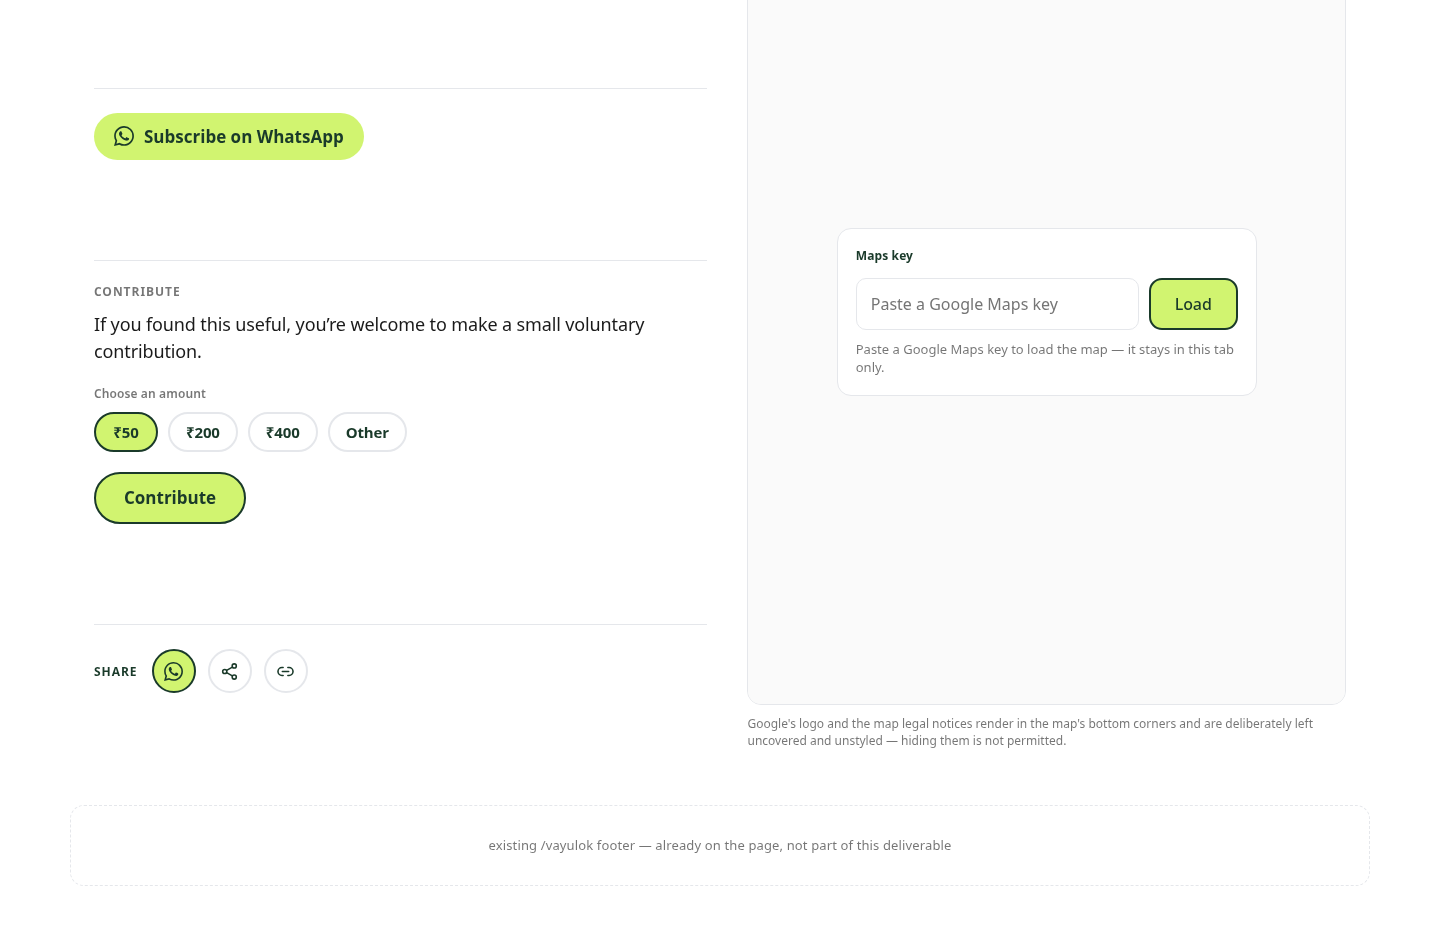
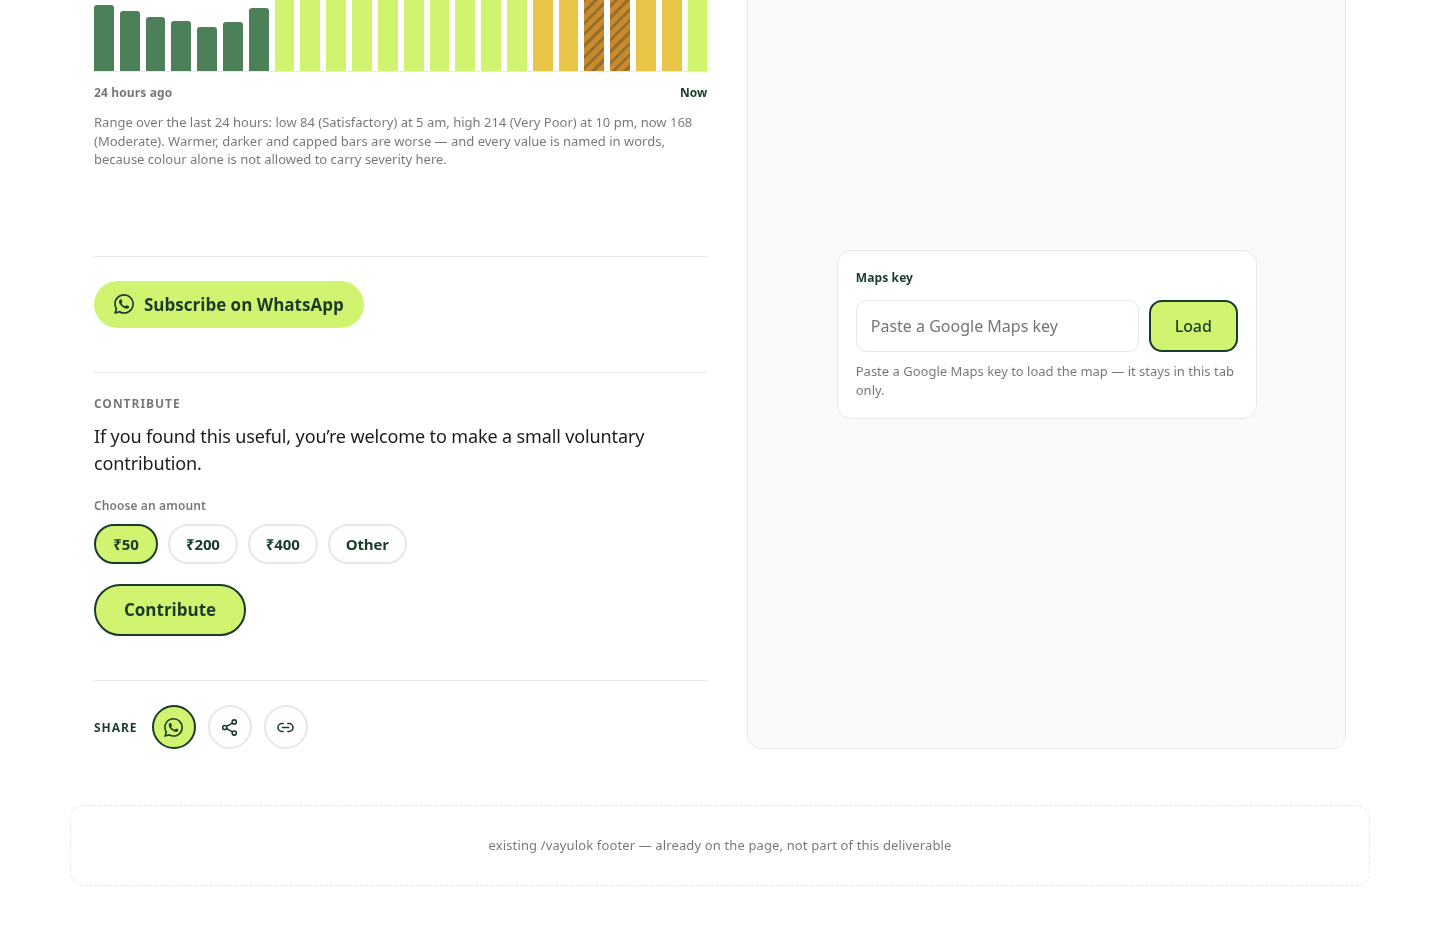
fix(vayulok): bring the AQI chart and left-section onto the home-page design language
- Redesign the 'Last 24 hours, AQI' chart on the home hero's grammar: it now
  sits between two hairlines (top + baseline) like the .vl-signal / .vl-hours
  rails, bars round 3px at the top with a little more air, and the current
  reading is marked with the home .home-mark lime tint (#e0f7c8 / --lime-tint)
  plus a lime baseline tick and a green 'Now' axis label. The severity ramp,
  dark caps and worst-band hatch stay, so form still carries severity (WCAG
  1.4.1), not colour alone.
- Tighten the gaps between the Subscribe / Contribute / Share dividers: drop the
  invented 56px/40px bottom padding on .vl-section so the stack rides the shipped
  rhythm (margin-top:44px; padding-top:24px; border-top), matching .bc and
  .post-share on the real site. The harness-pinned 44px margin / 24px padding
  are unchanged.
- Remove the internal developer note that rendered below the map ('Google's logo
  and the map legal notices render ... hiding them is not permitted.'). The
  policy it stated is preserved as a code comment; the behaviour (never covering
  the map's corner attributions) is unchanged. The now-unused .vl-map-note rule
  is deleted per the file's 'unused rules are deleted' convention.

Twins stay byte-identical; harness 880/880; PNG pairs byte-identical; zero
non-file:// requests; amounts and contribute copy untouched.

diff --git a/docs/mocks/vayulok-final-v3.html b/docs/mocks/vayulok-final-v3.html
@@ -422,9 +422,15 @@ html,body{margin:0;background:#fff}
   border:1px solid var(--hair);border-radius:var(--r-panel);background:var(--ground);
 }
 .vl-map-canvas{position:absolute;inset:0}
-/* The attribution note sits BELOW the map surface, outside it, so it cannot
-   sit on top of Google's logo or the map legal notices. */
-.vl-map-note{margin:0;font-size:12px;line-height:1.45;color:var(--ink-muted)}
+/* .vl-map-note IS RETIRED. It styled a user-visible paragraph below the map that
+   repeated an internal developer note about Google's logo and the map legal
+   notices. That paragraph was an internal comment leaking onto the rendered page,
+   so it was removed; the policy it stated is now a code comment beside the map
+   markup. The rule had no other user, so it is deleted rather than left dormant,
+   per this file's "unused rules are deleted" convention. The behaviour it
+   described - never covering or styling the map's corner attributions - is
+   unchanged: the overlays stay inset from the corners (see .vl-map-preview and
+   .vl-map-legend). */
 
 @media(min-width:1024px){
   .vl-app-grid{
@@ -911,13 +917,30 @@ html,body{margin:0;background:#fff}
   .vl-threeup>div+div{padding-top:22px;padding-left:24px;border-top:0;border-left:1px solid var(--hair)}
 }
 
-/* THE HISTORY CHART. Form again, not tone alone: the two worst bands carry a
-   dark cap, and the worst band is additionally hatched, so Poor and Very Poor
-   stay apart from Moderate in greyscale. The chart is aria-hidden - it is a
-   picture of the numbers - and the readable version is the worded range
-   printed underneath it. */
-.vl-chart{display:flex;align-items:flex-end;gap:5px;height:170px;border-bottom:1px solid var(--hair)}
-.vl-chart span{flex:1 1 0;border-radius:2px 2px 0 0;min-width:0}
+/* THE HISTORY CHART - ON THE HOME PAGE'S DESIGN LANGUAGE.
+   The home hero's visual grammar is: hairline rules rather than boxes, the
+   lime #d1f470 / #e0f7c8 brand tint as the single accent, generous airy
+   spacing, and 9999px/13px rounding on anything that reads as a shape
+   (docs/mocks/home-hero/index.html: .home-mark, .home-btn, .home-layout).
+   This chart is brought onto that grammar:
+     - it sits BETWEEN two hairlines (top + baseline), the same device the
+       .vl-signal / .vl-hours rails already use, so it reads as a framed signal
+       block rather than loose bars on one line;
+     - the bars are rounded 3px at the top (home rounds everything), carry a
+       little more air (gap 6px) and bottom-align on the baseline;
+     - the CURRENT reading - the last bar - is marked with the home mark's lime
+       tint (--lime-tint, the composited #e0f7c8 the home .home-mark uses) and a
+       lime baseline tick, so the eye lands on "Now" exactly as the home hero's
+       lime pill marks the live word.
+   FORM STILL CARRIES SEVERITY, NOT TONE ALONE: the two worst bands keep their
+   dark cap and the worst keeps its hatch, so Poor and Very Poor stay apart from
+   Moderate in greyscale (WCAG 1.4.1). The chart is aria-hidden - a picture of
+   the numbers - and the readable version is the worded range printed below. */
+.vl-chart{
+  display:flex;align-items:flex-end;gap:6px;height:170px;padding-top:24px;
+  border-top:1px solid var(--hair);border-bottom:1px solid var(--hair);
+}
+.vl-chart span{flex:1 1 0;border-radius:3px 3px 0 0;min-width:0}
 .vl-chart .is-sat{background-color:var(--aqi-sat)}
 .vl-chart .is-mod{background-color:var(--aqi-mod)}
 .vl-chart .is-poor{background-color:var(--aqi-poor);border-top:3px solid var(--green)}
@@ -925,8 +948,21 @@ html,body{margin:0;background:#fff}
   background-color:var(--aqi-worst);border-top:3px solid var(--green);
   background-image:repeating-linear-gradient(135deg,rgba(26,58,42,.3) 0 3px,transparent 3px 8px);
 }
-.vl-chart-axis{display:flex;justify-content:space-between;margin:10px 0 0;gap:12px}
+/* THE 'NOW' MARK - the home hero's lime brand tint applied to the live reading.
+   It paints the lime #e0f7c8 wash BEHIND the current bar and drops a 3px lime
+   tick on the baseline under it, which is the same "lime marks the live thing"
+   gesture as .home-mark. It sits on its own class so it layers over whichever
+   severity band the current hour happens to be. */
+.vl-chart .is-now{
+  position:relative;
+  box-shadow:0 0 0 2px var(--lime-tint);
+  border-bottom:3px solid var(--lime);
+}
+.vl-chart-axis{display:flex;justify-content:space-between;margin:12px 0 0;gap:12px}
 .vl-chart-axis span{font-size:12px;font-weight:700;letter-spacing:.01em;color:var(--ink-muted)}
+/* The 'Now' label on the axis carries the brand green, matching the home hero's
+   #1a3a2a accent type, so the two ends read as "then -> now". */
+.vl-chart-axis span:last-child{color:var(--green)}
 
 /* ============================================================================
    SUBSCRIBE - mirrors the .blog-wa-subscribe anchor in src/pages/post/[slug].tsx.
@@ -940,8 +976,17 @@ html,body{margin:0;background:#fff}
    rules. .vl-eyebrow is NOT deleted: it has a second, live user ("Health
    advisory") further up the page, which a grep of every occurrence confirmed
    before anything was removed.
-   ========================================================================= */
-.vl-section{padding-block:56px}
+   NO BOTTOM PADDING. The shipped `.bc` and `.post-share` blocks carry only
+   `margin-top:44px;padding-top:24px;border-top` - they have NO padding-bottom,
+   so the gap below each block is just the next block's own 44px margin-top. The
+   56px padding-bottom this rule used to add was invented for this column and
+   doubled the space under Subscribe and Contribute (the divider already sits
+   44px below the previous content, then 56px of empty padding sat under the
+   content inside the block). Dropping it brings the stack onto the shipped
+   rhythm and removes the extra whitespace between the three blocks. The
+   padding-top here is left in place but is shadowed to 24px by the more-specific
+   `.vl-app-left > .vl-section` rule for all three stacked sections. */
+.vl-section{padding-top:56px;padding-bottom:0}
 /* ROLE 8, ported from src/pages/post/[slug].tsx:772-782
    (.blog-wa-subscribe). It is NO LONGER a ROLE 1 .vl-btn. The shipped anchor is a
    999px pill, 17px/700, padding 12px 20px, lime fill, dark-green type and NO
@@ -1164,7 +1209,7 @@ html,body{margin:0;background:#fff}
 }
 @media(max-width:767px){
   .vl-wrap,.vl-mocknote,.vl-context{padding-inline:16px}
-  .vl-section{padding-block:40px}
+  .vl-section{padding-top:40px;padding-bottom:0}
   .vl-block{padding-block:36px}
   .vl-keycard{padding:16px}
   .vl-map-controls{top:12px;left:12px}
@@ -1473,7 +1518,7 @@ html,body{margin:0;background:#fff}
               <span class="is-worst" style="height:88%"></span>
               <span class="is-poor" style="height:79%"></span>
               <span class="is-poor" style="height:71%"></span>
-              <span class="is-mod" style="height:67%"></span>
+              <span class="is-mod is-now" style="height:67%"></span>
             </div>
             <div class="vl-chart-axis"><span>24 hours ago</span><span>Now</span></div>
             <p class="vl-small" style="margin-top:12px">
@@ -1732,12 +1777,14 @@ html,body{margin:0;background:#fff}
             </div>
           </div>
 
-          <!-- BELOW the map surface, outside it, so it cannot cover Google's
-               logo or the map legal notices. -->
-          <p class="vl-map-note">
-            Google's logo and the map legal notices render in the map's bottom corners and are
-            deliberately left uncovered and unstyled — hiding them is not permitted.
-          </p>
+          <!-- POLICY, FOR DEVELOPERS ONLY - NOT RENDERED. Google's logo and the
+               map legal notices render in the map's bottom corners and must be
+               left uncovered and unstyled; hiding them breaks Google Maps
+               Platform terms. The overlays above (.vl-map-preview at bottom:76px,
+               the legend inset from the corners) already keep clear of them, so
+               there is nothing to draw here. The user-visible paragraph that used
+               to repeat this note on the page was an internal developer comment
+               and has been removed - it is kept here as a code comment instead. -->
         </div>
       </div><!-- /.vl-app-right -->
 

diff --git a/docs/mocks/vayulok-live-mock.html b/docs/mocks/vayulok-live-mock.html
@@ -422,9 +422,15 @@ html,body{margin:0;background:#fff}
   border:1px solid var(--hair);border-radius:var(--r-panel);background:var(--ground);
 }
 .vl-map-canvas{position:absolute;inset:0}
-/* The attribution note sits BELOW the map surface, outside it, so it cannot
-   sit on top of Google's logo or the map legal notices. */
-.vl-map-note{margin:0;font-size:12px;line-height:1.45;color:var(--ink-muted)}
+/* .vl-map-note IS RETIRED. It styled a user-visible paragraph below the map that
+   repeated an internal developer note about Google's logo and the map legal
+   notices. That paragraph was an internal comment leaking onto the rendered page,
+   so it was removed; the policy it stated is now a code comment beside the map
+   markup. The rule had no other user, so it is deleted rather than left dormant,
+   per this file's "unused rules are deleted" convention. The behaviour it
+   described - never covering or styling the map's corner attributions - is
+   unchanged: the overlays stay inset from the corners (see .vl-map-preview and
+   .vl-map-legend). */
 
 @media(min-width:1024px){
   .vl-app-grid{
@@ -911,13 +917,30 @@ html,body{margin:0;background:#fff}
   .vl-threeup>div+div{padding-top:22px;padding-left:24px;border-top:0;border-left:1px solid var(--hair)}
 }
 
-/* THE HISTORY CHART. Form again, not tone alone: the two worst bands carry a
-   dark cap, and the worst band is additionally hatched, so Poor and Very Poor
-   stay apart from Moderate in greyscale. The chart is aria-hidden - it is a
-   picture of the numbers - and the readable version is the worded range
-   printed underneath it. */
-.vl-chart{display:flex;align-items:flex-end;gap:5px;height:170px;border-bottom:1px solid var(--hair)}
-.vl-chart span{flex:1 1 0;border-radius:2px 2px 0 0;min-width:0}
+/* THE HISTORY CHART - ON THE HOME PAGE'S DESIGN LANGUAGE.
+   The home hero's visual grammar is: hairline rules rather than boxes, the
+   lime #d1f470 / #e0f7c8 brand tint as the single accent, generous airy
+   spacing, and 9999px/13px rounding on anything that reads as a shape
+   (docs/mocks/home-hero/index.html: .home-mark, .home-btn, .home-layout).
+   This chart is brought onto that grammar:
+     - it sits BETWEEN two hairlines (top + baseline), the same device the
+       .vl-signal / .vl-hours rails already use, so it reads as a framed signal
+       block rather than loose bars on one line;
+     - the bars are rounded 3px at the top (home rounds everything), carry a
+       little more air (gap 6px) and bottom-align on the baseline;
+     - the CURRENT reading - the last bar - is marked with the home mark's lime
+       tint (--lime-tint, the composited #e0f7c8 the home .home-mark uses) and a
+       lime baseline tick, so the eye lands on "Now" exactly as the home hero's
+       lime pill marks the live word.
+   FORM STILL CARRIES SEVERITY, NOT TONE ALONE: the two worst bands keep their
+   dark cap and the worst keeps its hatch, so Poor and Very Poor stay apart from
+   Moderate in greyscale (WCAG 1.4.1). The chart is aria-hidden - a picture of
+   the numbers - and the readable version is the worded range printed below. */
+.vl-chart{
+  display:flex;align-items:flex-end;gap:6px;height:170px;padding-top:24px;
+  border-top:1px solid var(--hair);border-bottom:1px solid var(--hair);
+}
+.vl-chart span{flex:1 1 0;border-radius:3px 3px 0 0;min-width:0}
 .vl-chart .is-sat{background-color:var(--aqi-sat)}
 .vl-chart .is-mod{background-color:var(--aqi-mod)}
 .vl-chart .is-poor{background-color:var(--aqi-poor);border-top:3px solid var(--green)}
@@ -925,8 +948,21 @@ html,body{margin:0;background:#fff}
   background-color:var(--aqi-worst);border-top:3px solid var(--green);
   background-image:repeating-linear-gradient(135deg,rgba(26,58,42,.3) 0 3px,transparent 3px 8px);
 }
-.vl-chart-axis{display:flex;justify-content:space-between;margin:10px 0 0;gap:12px}
+/* THE 'NOW' MARK - the home hero's lime brand tint applied to the live reading.
+   It paints the lime #e0f7c8 wash BEHIND the current bar and drops a 3px lime
+   tick on the baseline under it, which is the same "lime marks the live thing"
+   gesture as .home-mark. It sits on its own class so it layers over whichever
+   severity band the current hour happens to be. */
+.vl-chart .is-now{
+  position:relative;
+  box-shadow:0 0 0 2px var(--lime-tint);
+  border-bottom:3px solid var(--lime);
+}
+.vl-chart-axis{display:flex;justify-content:space-between;margin:12px 0 0;gap:12px}
 .vl-chart-axis span{font-size:12px;font-weight:700;letter-spacing:.01em;color:var(--ink-muted)}
+/* The 'Now' label on the axis carries the brand green, matching the home hero's
+   #1a3a2a accent type, so the two ends read as "then -> now". */
+.vl-chart-axis span:last-child{color:var(--green)}
 
 /* ============================================================================
    SUBSCRIBE - mirrors the .blog-wa-subscribe anchor in src/pages/post/[slug].tsx.
@@ -940,8 +976,17 @@ html,body{margin:0;background:#fff}
    rules. .vl-eyebrow is NOT deleted: it has a second, live user ("Health
    advisory") further up the page, which a grep of every occurrence confirmed
    before anything was removed.
-   ========================================================================= */
-.vl-section{padding-block:56px}
+   NO BOTTOM PADDING. The shipped `.bc` and `.post-share` blocks carry only
+   `margin-top:44px;padding-top:24px;border-top` - they have NO padding-bottom,
+   so the gap below each block is just the next block's own 44px margin-top. The
+   56px padding-bottom this rule used to add was invented for this column and
+   doubled the space under Subscribe and Contribute (the divider already sits
+   44px below the previous content, then 56px of empty padding sat under the
+   content inside the block). Dropping it brings the stack onto the shipped
+   rhythm and removes the extra whitespace between the three blocks. The
+   padding-top here is left in place but is shadowed to 24px by the more-specific
+   `.vl-app-left > .vl-section` rule for all three stacked sections. */
+.vl-section{padding-top:56px;padding-bottom:0}
 /* ROLE 8, ported from src/pages/post/[slug].tsx:772-782
    (.blog-wa-subscribe). It is NO LONGER a ROLE 1 .vl-btn. The shipped anchor is a
    999px pill, 17px/700, padding 12px 20px, lime fill, dark-green type and NO
@@ -1164,7 +1209,7 @@ html,body{margin:0;background:#fff}
 }
 @media(max-width:767px){
   .vl-wrap,.vl-mocknote,.vl-context{padding-inline:16px}
-  .vl-section{padding-block:40px}
+  .vl-section{padding-top:40px;padding-bottom:0}
   .vl-block{padding-block:36px}
   .vl-keycard{padding:16px}
   .vl-map-controls{top:12px;left:12px}
@@ -1473,7 +1518,7 @@ html,body{margin:0;background:#fff}
               <span class="is-worst" style="height:88%"></span>
               <span class="is-poor" style="height:79%"></span>
               <span class="is-poor" style="height:71%"></span>
-              <span class="is-mod" style="height:67%"></span>
+              <span class="is-mod is-now" style="height:67%"></span>
             </div>
             <div class="vl-chart-axis"><span>24 hours ago</span><span>Now</span></div>
             <p class="vl-small" style="margin-top:12px">
@@ -1732,12 +1777,14 @@ html,body{margin:0;background:#fff}
             </div>
           </div>
 
-          <!-- BELOW the map surface, outside it, so it cannot cover Google's
-               logo or the map legal notices. -->
-          <p class="vl-map-note">
-            Google's logo and the map legal notices render in the map's bottom corners and are
-            deliberately left uncovered and unstyled — hiding them is not permitted.
-          </p>
+          <!-- POLICY, FOR DEVELOPERS ONLY - NOT RENDERED. Google's logo and the
+               map legal notices render in the map's bottom corners and must be
+               left uncovered and unstyled; hiding them breaks Google Maps
+               Platform terms. The overlays above (.vl-map-preview at bottom:76px,
+               the legend inset from the corners) already keep clear of them, so
+               there is nothing to draw here. The user-visible paragraph that used
+               to repeat this note on the page was an internal developer comment
+               and has been removed - it is kept here as a code comment instead. -->
         </div>
       </div><!-- /.vl-app-right -->
 
